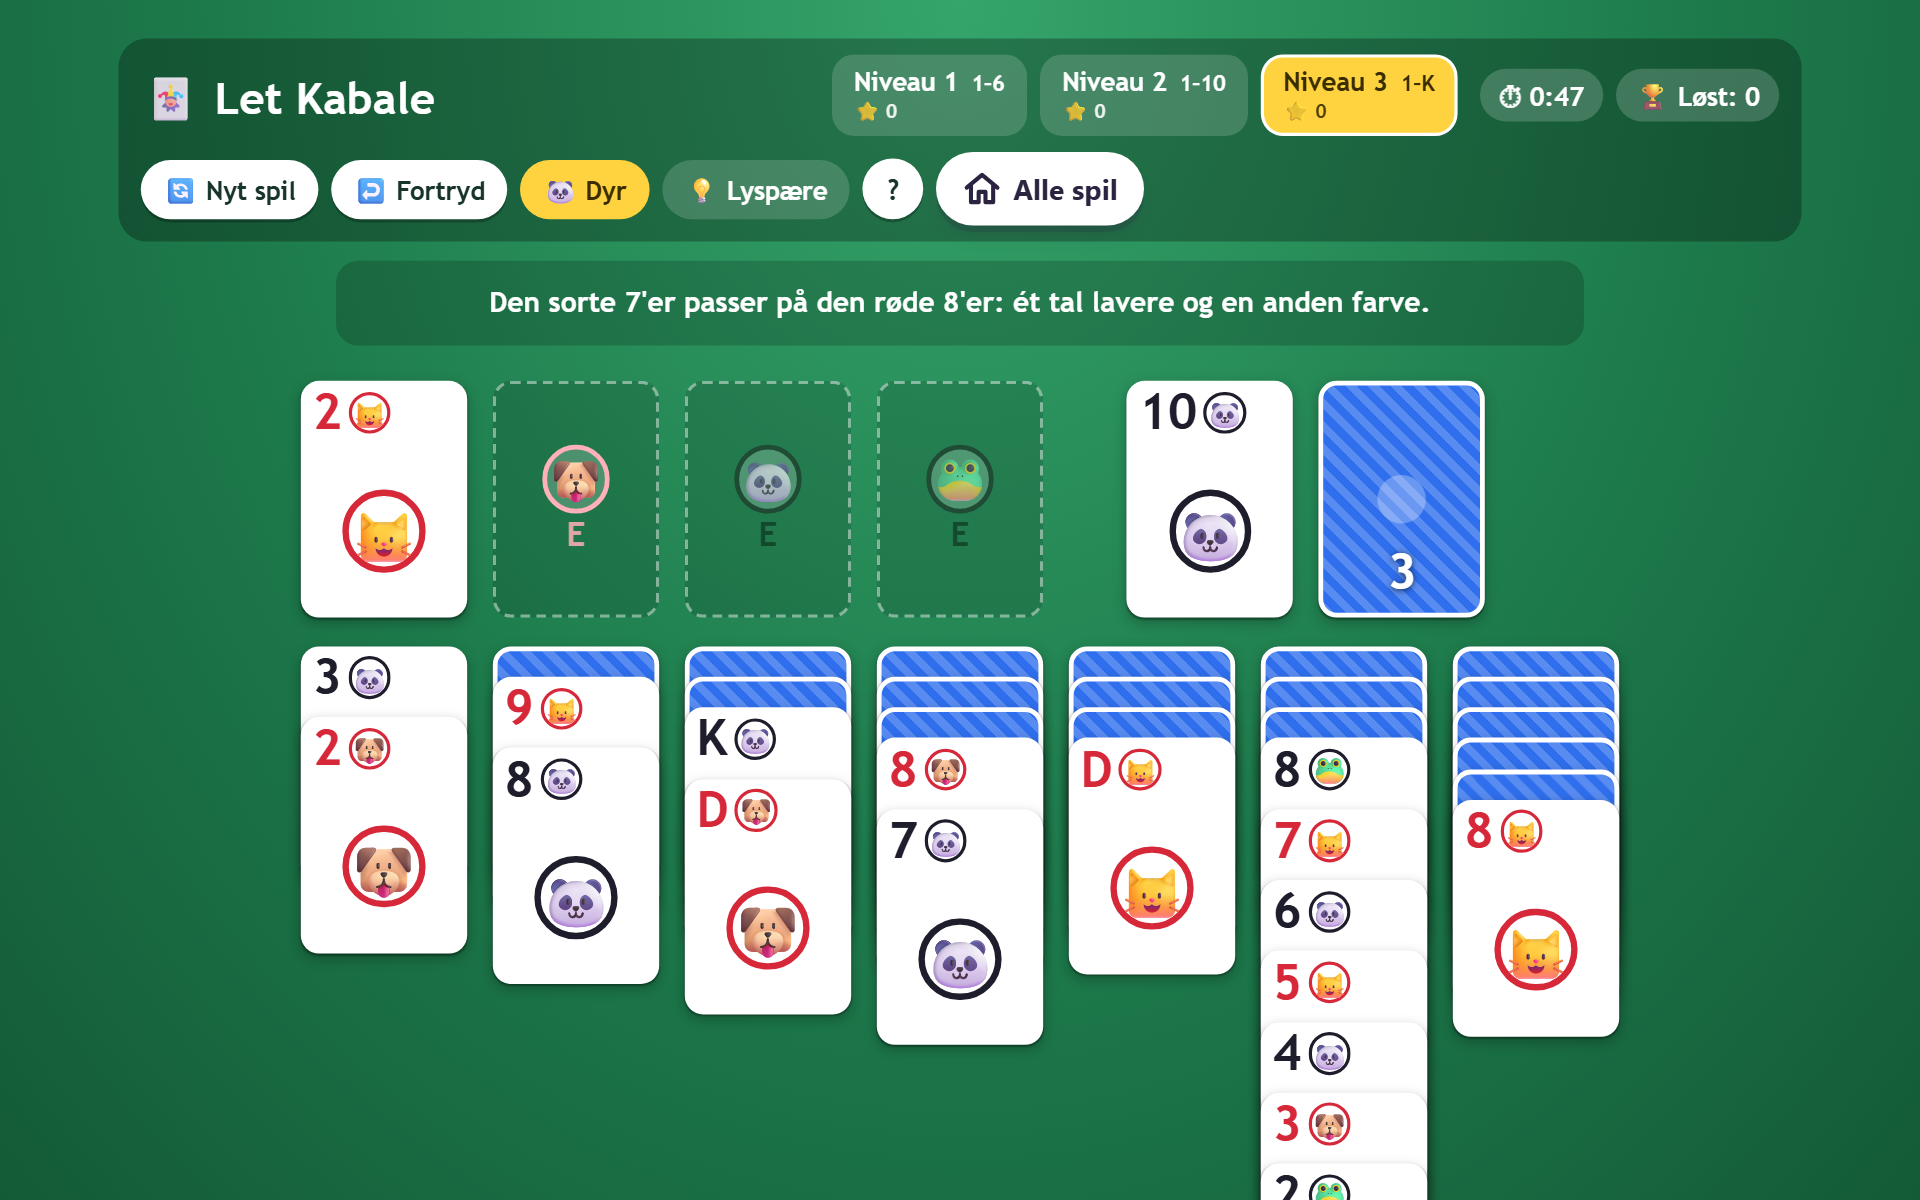
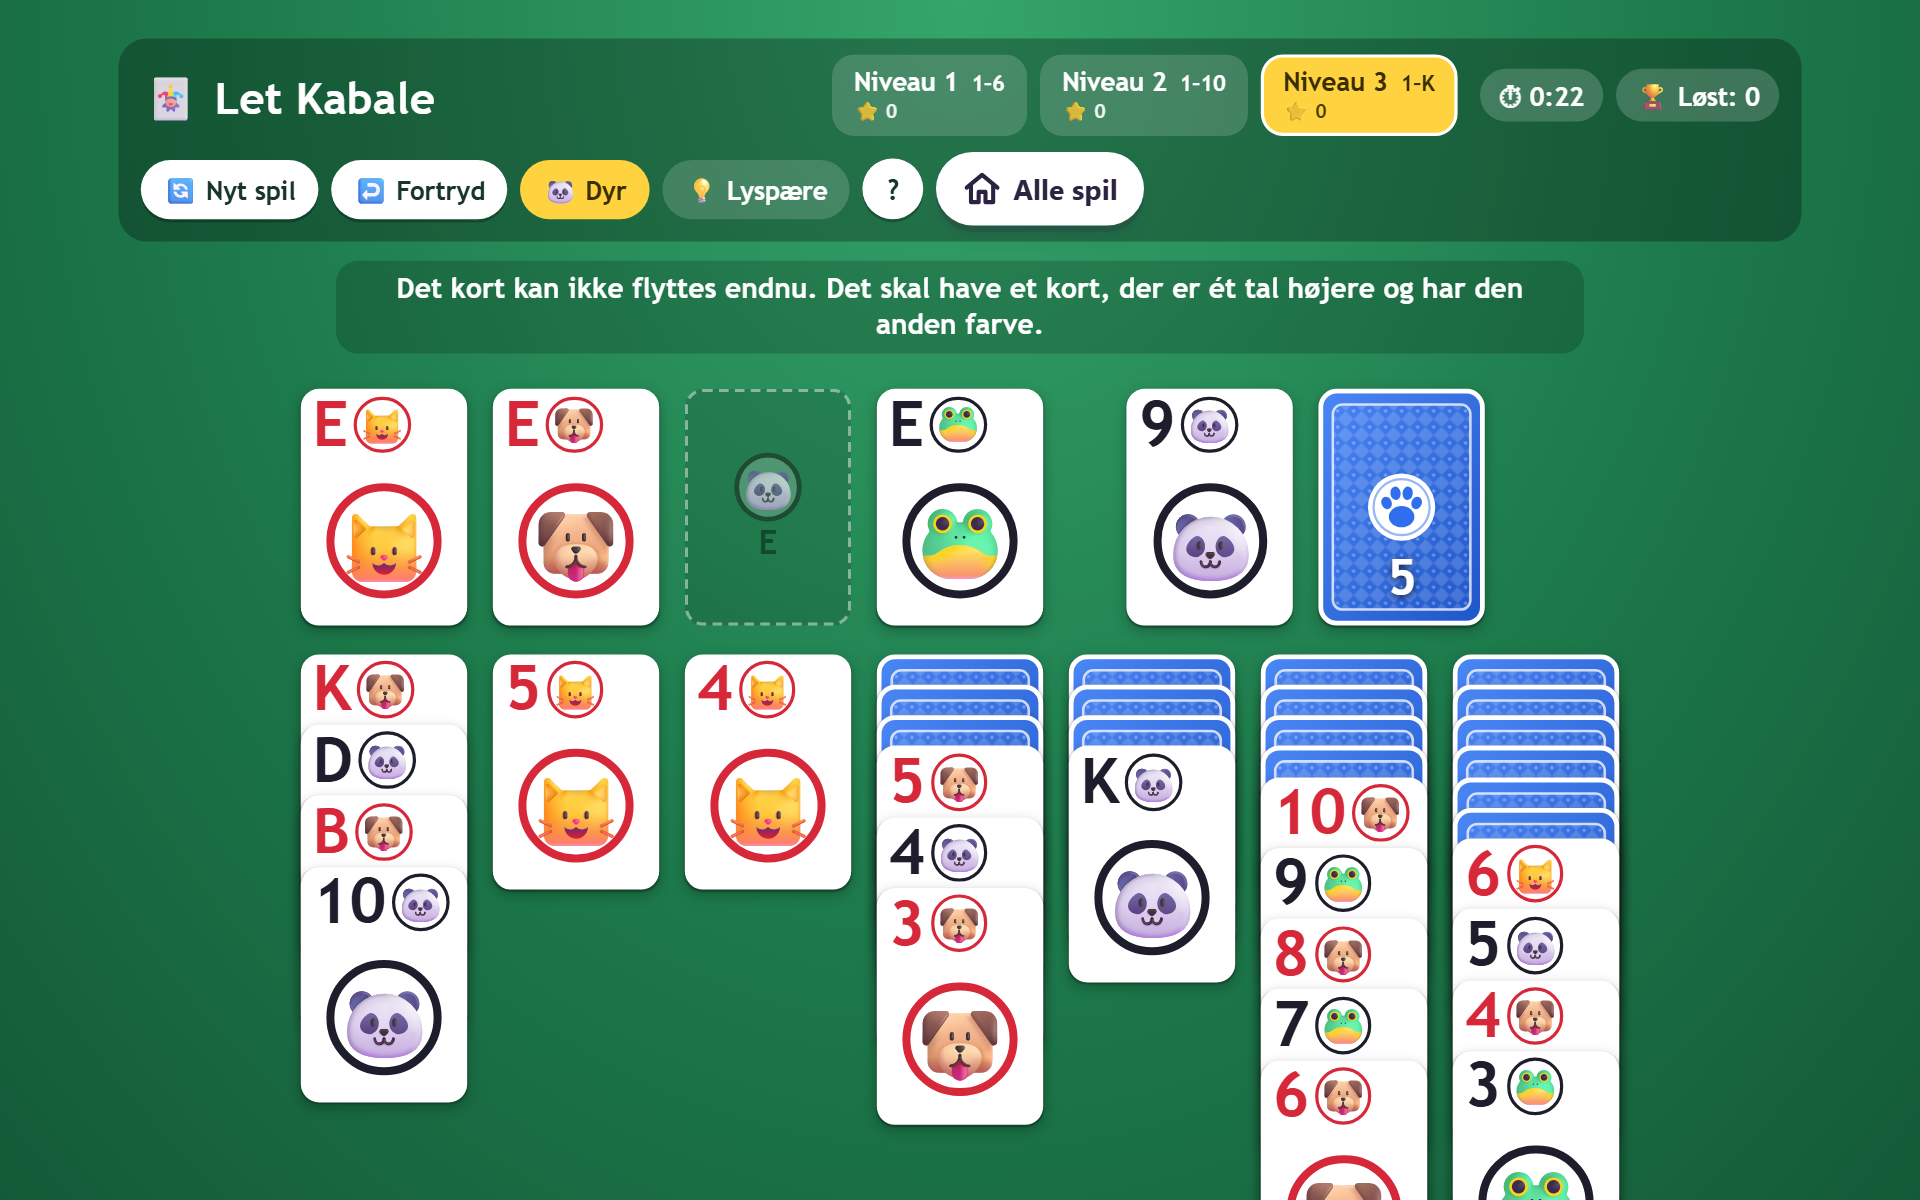
Bigger card numbers and pips, and an image for the back of the cards
The corner numbers, corner animals/suits and the big centre pip are 27-40 %
larger, still within the visible strip of a stacked card. The card back is
now img/card-back.svg (blue diamond lattice with a paw-print medallion)
instead of CSS stripes. Banner refreshed to the new look.

Changed region(s): [[0.1562, 0.2158, 0.8438, 1.0]]

diff --git a/src/EasySolitaire/wwwroot/css/app.css b/src/EasySolitaire/wwwroot/css/app.css
@@ -221,32 +221,30 @@ body {
 .card.face.red, .card.face.red:disabled { color: var(--red); }
 .card.face.black, .card.face.black:disabled { color: var(--black); }
 
+/* The back is an image (img/card-back.svg); the white border is drawn by the card itself. */
 .card.back {
-    background-color: #2f6fed;
-    background-image:
-        radial-gradient(circle at 50% 50%, rgba(255, 255, 255, .28) 0 17%, transparent 18%),
-        repeating-linear-gradient(45deg, rgba(255, 255, 255, .2) 0 5px, transparent 5px 10px);
+    background: #2f6fed url("../img/card-back.svg") center / cover no-repeat;
     border: 3px solid #fff;
 }
 
 .corner {
     position: absolute;
     left: calc(var(--cw) * .07);
-    top: calc(var(--cw) * .04);
+    top: calc(var(--cw) * .025);
     display: flex;
     align-items: center;
-    gap: calc(var(--cw) * .04);
-    font-size: calc(var(--cw) * .3);
+    gap: calc(var(--cw) * .03);
+    font-size: calc(var(--cw) * .38);   /* fits the visible strip of a stacked card (--upo) */
     font-weight: 900;
     line-height: 1;
 }
 
 .center {
     position: absolute;
-    inset: calc(var(--cw) * .38) 0 0 0;
+    inset: calc(var(--cw) * .4) 0 0 0;
     display: grid;
     place-items: center;
-    font-size: calc(var(--cw) * .52);
+    font-size: calc(var(--cw) * .72);
     line-height: 1;
 }
 
@@ -265,8 +263,8 @@ body {
     font-family: var(--emoji);
     line-height: 1;
 }
-.corner .animal { font-size: calc(var(--cw) * .17); }
-.center .animal { font-size: calc(var(--cw) * .33); }
+.corner .animal { font-size: calc(var(--cw) * .23); }
+.center .animal { font-size: calc(var(--cw) * .46); }
 
 .count {
     position: absolute;

diff --git a/THIRD-PARTY-NOTICES.md b/THIRD-PARTY-NOTICES.md
@@ -60,6 +60,7 @@ Used to build, test or render promotional material only; not part of the shipped
 | Asset(s) | Origin | Licence |
 |---|---|---|
 | `art/icon.svg`, `src/EasySolitaire/wwwroot/icons/` (8 files: .png, rendered from `art/icon.svg` by `tools/make-icons.ps1`) | Drawn by the author as SVG (written with an AI coding agent), not made with an image-generation tool. The cat on the front card is the 🐱 emoji in Microsoft's Fluent Emoji design, rendered from the Segoe UI Emoji font | MIT (as part of this project); the cat emoji design is © Microsoft, MIT ([microsoft/fluentui-emoji](https://github.com/microsoft/fluentui-emoji)) |
+| `src/EasySolitaire/wwwroot/img/card-back.svg` (the back of the cards) | Drawn by the author as SVG (written with an AI coding agent), not made with an image-generation tool | MIT (as part of this project) |
 | `images/banner.png` | Screenshot of the game | MIT (as part of this project) |
 | Card symbols and animals in the game (♥ ♦ ♠ ♣, 🐱 🐶 🐼 🐸 and other emoji) | Not shipped: drawn at run time by the fonts installed on the player's device | — |
 

diff --git a/README.md b/README.md
@@ -87,6 +87,7 @@ The app is served from an `easysolitaire` sub-path: `<base href>` in [`wwwroot/i
 | `src/EasySolitaire/Components/Game.razor` | The board, top bar, help and win dialogs |
 | `src/EasySolitaire/Components/CardView.razor` | One card |
 | `src/EasySolitaire/wwwroot/css/app.css` | All styling; every size scales from one `--cw` (card width) variable |
+| `src/EasySolitaire/wwwroot/img/card-back.svg` | The back of the cards |
 | `src/EasySolitaire/wwwroot/index.html` | Host page, icons and PWA meta tags |
 | `src/EasySolitaire/wwwroot/manifest.webmanifest` | PWA manifest for "Add to Home Screen" |
 | `src/EasySolitaire/wwwroot/icons/` | App icons and favicon |
